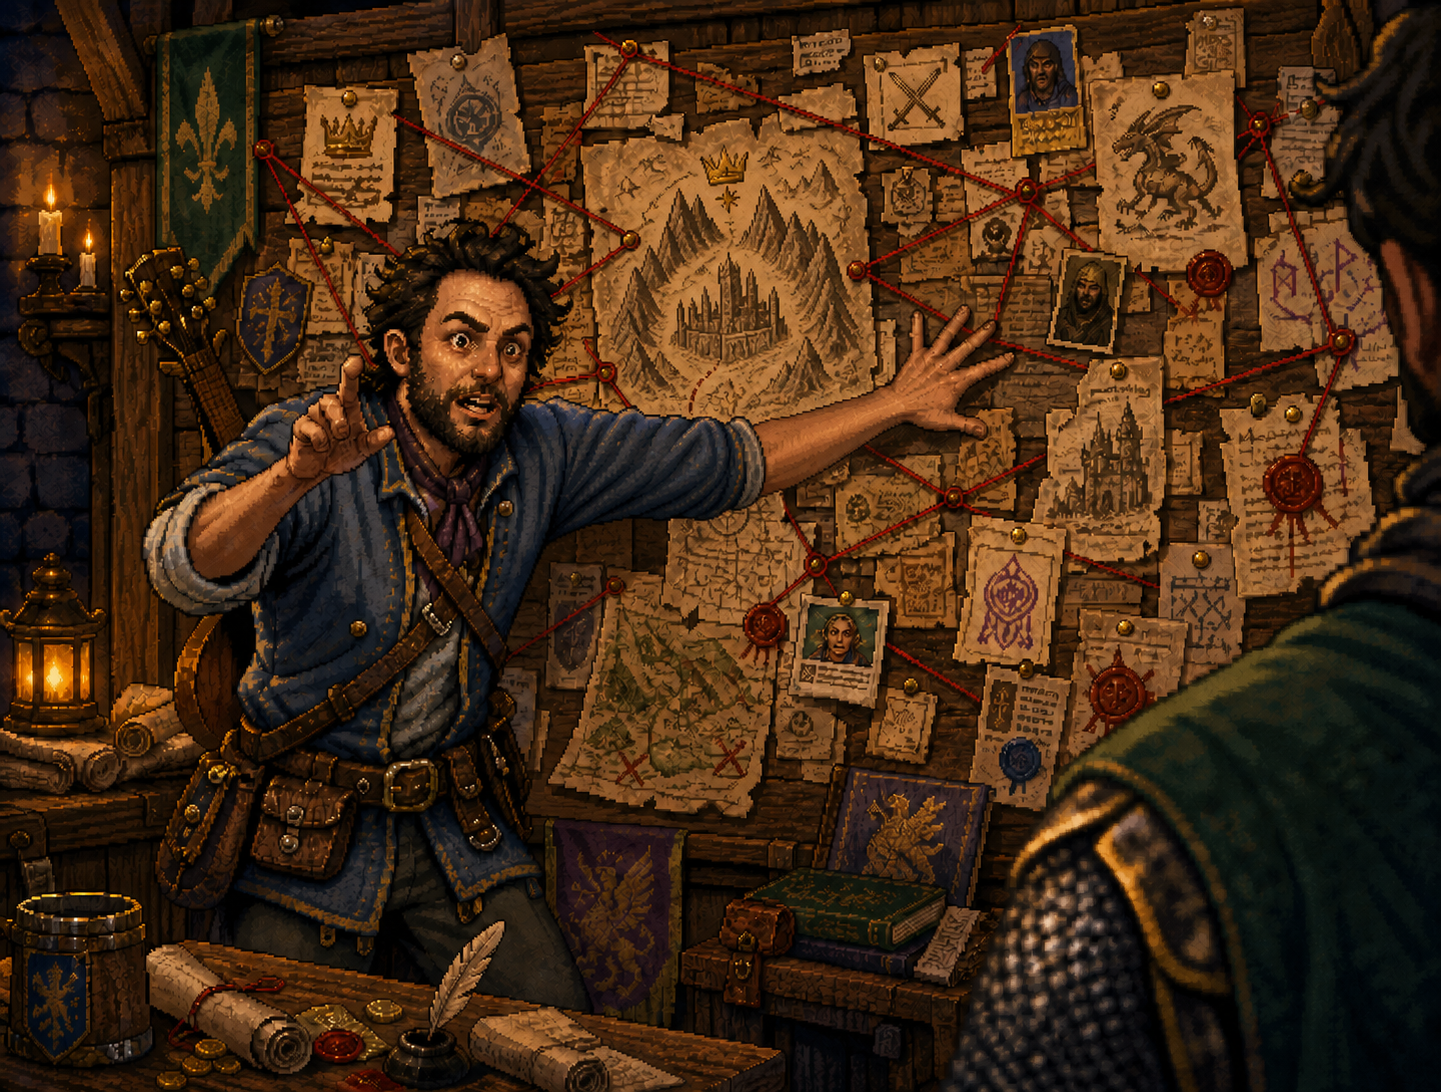
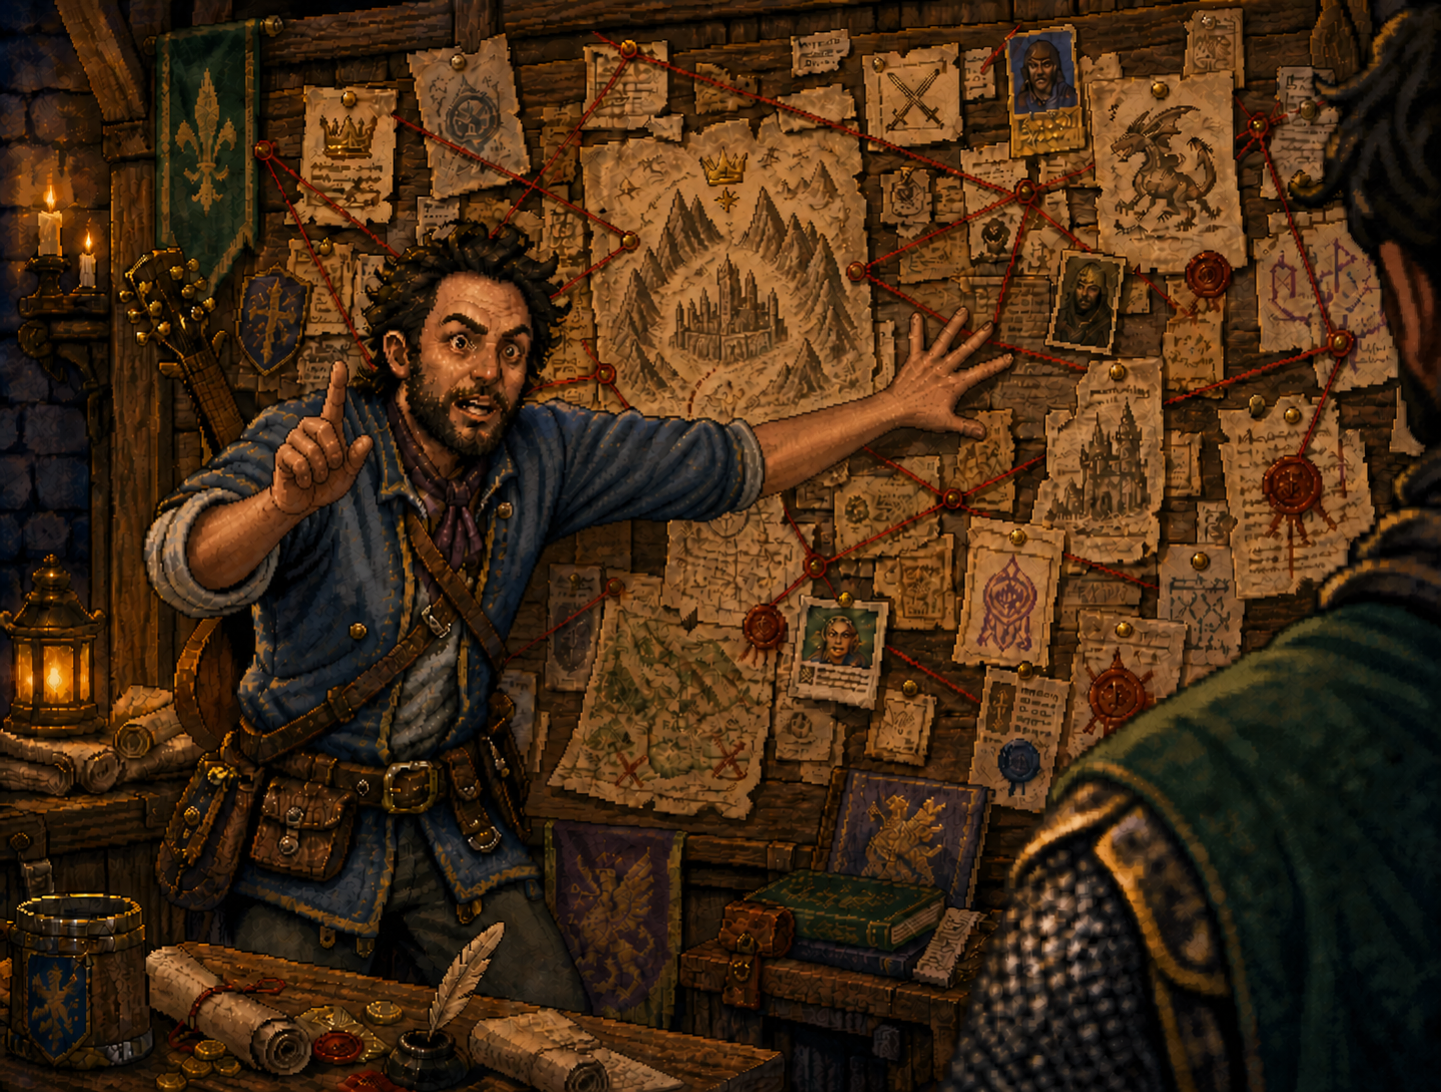
docs: sharpen Pinboard visitor story

Changed region(s): [[0.0, 0.0, 0.9993, 1.0], [0.406, 0.8095, 0.4372, 0.8407]]

diff --git a/README.md b/README.md
@@ -7,55 +7,47 @@
 
 <img align="right" width="430" src="assets/pinboard-investigation-board.png" alt="Pixel-art bard explaining a fantasy investigation board covered with maps, clues, and red thread">
 
-Pinboard is a repository-scoped planning and execution control plane for coding agents. It turns shared project work into executable state: project decisions, legal next work, current ownership, accepted scope, and acceptance evidence remain durable across tasks and interruptions.
+Long-running coding-agent work rarely stays in one conversation. A feature uncovers a prerequisite, a review sends implementation back for correction, an interruption leaves work unfinished, and the next task has to recover what the project actually decided.
 
-Prompts express one agent's intent. Pinboard records what the project has actually decided and enforces which state changes are legal, so a finding can survive the chat that discovered it and an implementation can reach another task without its brief being retold. It keeps one trustworthy quest log and one trustworthy execution brief without deciding the product for you.
+Pinboard gives one repository a durable work ledger. Discoveries, priorities, dependencies, accepted briefs, current ownership, pauses, and review outcomes stay consistent across Codex tasks. A finding can survive the conversation that discovered it, and an implementation can reach another task without its brief being retold.
 
-Pinboard is most useful when repository work lasts for days, several Codex tasks are involved, or one change keeps uncovering prerequisites. A short isolated change probably does not need it. [Install it from GitHub](#install-from-github), or follow the campaign below to see the shipped workflow.
+Pinboard does not decide the product, choose priorities, or create Codex tasks. It records project decisions, rejects changes that no longer fit the current state, and keeps current ownership explicit. A short isolated change probably does not need it. Work that spans tasks, interruptions, dependencies, or independent review often does.
 
-## Ashfall Keep becomes a campaign
+## A campaign that survives the conversation
 
 Imagine you are building *Ashfall Keep*, a small action RPG. One Codex task is working on the dragon boss's second phase. Two scouts return with useful but distracting discoveries: save games capture temporary animation state, and controller mappings identify abilities by inventory position.
 
-Without shared project state, the original chat becomes an accidental backlog, useful conclusions disappear into old conversations, and a feature branch slowly turns into a migration branch. Pinboard gives each discovery an explicit place and keeps the dragon work moving until evidence says it cannot.
+Without shared project state, the original conversation becomes an accidental backlog. Useful conclusions disappear into old tasks, and a focused feature quietly turns into several unrelated changes. Pinboard gives each concern an explicit place while keeping the current work honest.
 
-![Pixel-art quest scroll](assets/quest-scroll.png) **A quest is discovered.** The scout invokes `$pinboard-intake` to preserve the save-game finding as a visible intake candidate. It appears at the back of the live queue by default, while the current focus and active work remain unchanged. A coordinating chat later decides whether to mark it ready, defer it, merge it, or close it.
+![Pixel-art quest scroll](assets/quest-scroll.png) **Preserve the finding without changing the plan.** The scout invokes `$pinboard-intake` to record the save-game problem with its trigger, evidence, and likely consequence. It enters intake; it does not become approved work, replace the current focus, or interrupt the dragon attempt. A coordinating task can later make that decision.
 
-![Pixel-art folded adventure map](assets/map-fills-in.png) **The map fills in as the party travels.** The proposal keeps the exact trigger, evidence, consequence, and relationship to current work. The receipt stays compact:
+The scout gets a compact receipt:
 
 > **Saved for later — the animation-state finding is now in `save-game-animation-state` (`intake`); dragon work continues.**
 
-If a task was not authorized to preserve a new concern, it says so and asks for the decision instead of implying that the concern is already tracked. Completed work ends differently—`Completed; no follow-up needed`—so a solved quest never returns as invented backlog.
+<img align="right" width="390" src="assets/party-crossroads.png" alt="Pixel-art bard and adventurers considering routes toward a river village, a dragon keep, and a crystal cave">
 
-![Pixel-art open quest ledger](assets/quick-quest-log.png) **A glance at the quest log stays a glance.** Ask `$pinboard` where things stand and it reads one revision-stamped live overview: the dragon phase is active, controller mapping is ready, and the save-game finding is still in intake. Deeper rationale, completed decisions, delivery checks, or full history are fetched only when you ask for them.
+![Pixel-art open quest ledger](assets/quick-quest-log.png) **See the current work before deciding what moves.** Ask `$pinboard` where things stand and it reads one revision-stamped live overview: the dragon phase is active, controller mapping is ready, and the save-game finding remains in intake. The coordinating task can mark work ready, defer it, close it, connect a dependency, or preview which independent items could move together. Reading the map does not change it.
 
-![Pixel-art sealed retired quest scroll](assets/retired-quest.png) **An old quest leaves the live map cleanly.** For a conclusive terminal decision on non-active work, `$pinboard` uses `pinboard close` once. It does not invent an intake, activation, expedition, and completion sequence merely to retire the quest; the reason remains in history.
+![Pixel-art campfire checkpoint](assets/safe-camp.png) **Pause and resume without reconstructing the journey.** If stable ability IDs become a real prerequisite, the dragon attempt records where it stopped, why it cannot continue, and what would make it resumable. After the prerequisite is completed and accepted, the same attempt resumes from preserved evidence instead of asking a new conversation to infer the missing history.
 
-![Pixel-art broom and pruning shears clearing orphaned debris](assets/recursive-cleanup.png) **Old trails are cleared to the roots.** Repeated revisions can leave stale handlers, test-only APIs, obsolete names, and orphaned tooling behind. Invoke `$slop-cleanup` for a recursive campaign: trace candidates back to current product authority and production roots, remove one approved family, follow the newly orphaned code, tests, documentation, dependencies, and build paths, then repeat until a fresh full pass finds nothing new.
+![Pixel-art crossed sword and hammer](assets/ready-to-build.png) **Deliver the work that was actually accepted.** Pinboard publishes one canonical brief for the dragon attempt. `$pinboard-deliver` claims that attempt, follows its exact scope and checks, and records the result for independent review. The coordinating task accepts the evidence or returns the same attempt for correction; the implementing task never reviews its own work.
 
-<img align="right" width="360" src="assets/party-crossroads.png" alt="Pixel-art adventurers taking routes toward a river village, the dragon keep, and a crystal cave">
+The code, branch, and conversation remain ordinary repository work. Pinboard keeps the decisions and execution around them durable. [How Pinboard works](HOW_IT_WORKS.md) follows these ideas through the product, package layers, and relational ledger.
 
-![Pixel-art forked trail with two adventurers](assets/split-party.png) **The party can split without walking into the same trap.** Ask `$pinboard` which quests can move together. `pinboard parallel preview` identifies a safe group and explains blocked dependencies without creating tasks. Before each selected launch, Pinboard checks the remaining group again; changed ownership or dependencies stop the affected launch with a precise partial result.
+## What it covers
 
-![Pixel-art campfire checkpoint](assets/safe-camp.png) **The party makes camp.** If stable ability IDs become a true prerequisite, `$pinboard` records where the dragon work stopped and what must change. After the prerequisite is accepted, the same attempt can resume from preserved evidence instead of reconstructing the journey.
+- **Intake:** preserve a discovery without silently changing priority or starting work.
+- **Planning:** make readiness, deferral, closure, dependencies, and current focus explicit.
+- **Execution:** give each accepted attempt an exact brief and independent renewable ownership.
+- **Interruption and recovery:** block, pause, resume, or recover work without rebuilding its context from chat history.
+- **Parallel work:** preview independent items and recheck the group as each attempt starts, without creating tasks on the user's behalf.
+- **Review:** keep the submitted candidate and its evidence exact, then require a separate task to accept it or return it for correction.
+- **Recursive cleanup:** use `$slop-cleanup` to trace residue from revised or abandoned features, remove an approved family, and repeat until a fresh pass finds nothing new.
 
-![Pixel-art crossed sword and hammer](assets/ready-to-build.png) **The feature moves again.** `$pinboard` prepares one canonical accepted brief and `pinboard dispatch` points the worker to it without copying its semantics into another prompt. `$pinboard-deliver` claims that one active attempt, follows its exact scope and checks, and returns a durable result for independent review. The coordinating chat accepts the evidence or returns the same attempt for correction; a worker never accepts its own quest.
+The `$pinboard`, `$pinboard-intake`, and `$pinboard-deliver` skills provide the conversational workflows. The `pinboard` command validates and updates the repository-local ledger, rejects stale actions, and keeps unrelated attempts from invalidating one another.
 
-Everything remains ordinary repository work: code, branches, worktrees, Markdown, and conversation. Pinboard makes the work surrounding it executable and reviewable.
-
-The generated [How Pinboard works](HOW_IT_WORKS.md) guide shows the workflow, package layers, one transition across those layers, and the relational ledger underneath them.
-
-## What Pinboard keeps coherent
-
-- `$pinboard` reads the live map, explains legal next work, previews safe parallel work, and briefly borrows coordination when a shared decision must change.
-- `$pinboard-intake` lets any authorized task preserve one finding as visible intake without silently making it ready or active.
-- `$pinboard-deliver` executes one accepted attempt from its canonical brief and leaves verification evidence for independent review.
-- `$slop-cleanup` traces abandoned or repeatedly revised feature residue to provenance and production reachability, then recurses to a documented fixed point.
-- `pinboard` validates and updates the repository-local ledger, rejects stale actions, and keeps unrelated attempt ownership independent.
-
-There is no permanent master chat. One chat can plan and execute sequentially, or several chats can each claim a distinct attempt. Shared scheduling changes use a short exclusive coordination lease; implementation work uses attempt-specific leases, so unrelated changes do not invalidate one another.
-
-The project stores its private working state in ignored local files:
+Private working state stays in ignored local files:
 
 ```text
 .codex/pinboard/
@@ -64,7 +56,7 @@ The project stores its private working state in ignored local files:
   views/                      # generated human-readable projections
 ```
 
-SQLite is the sole current ledger authority. Immutable artifacts retain long-form contracts and evidence; generated views are convenient projections, never fallback state. The [architecture map](ARCHITECTURE.md) explains the package layers, persistence boundaries, failure semantics, and representative command flows.
+SQLite is the current ledger authority. Immutable artifacts retain long-form contracts and review evidence; generated views are convenient projections, not fallback state. The [architecture map](ARCHITECTURE.md) explains package ownership, persistence boundaries, and failure semantics for contributors and agents.
 
 ## Install from GitHub
 
